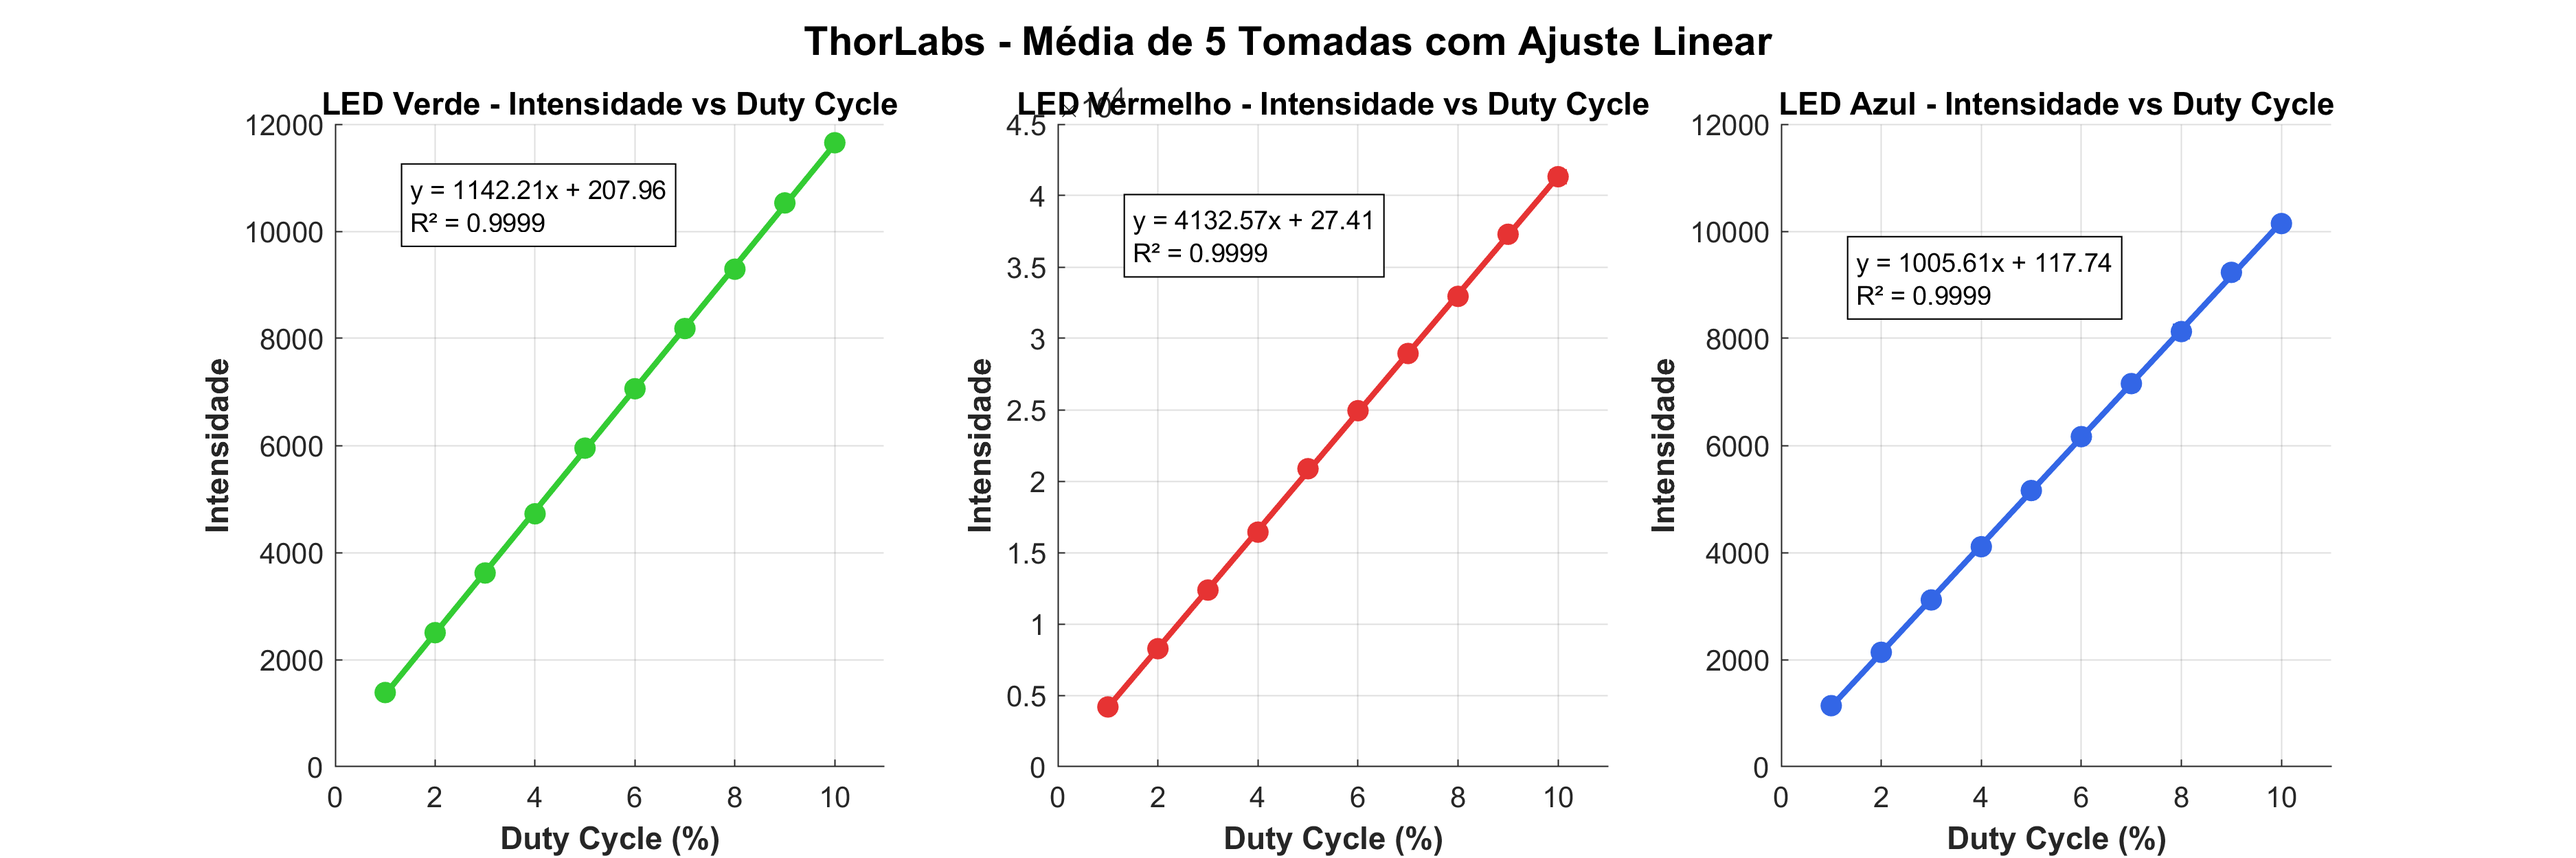
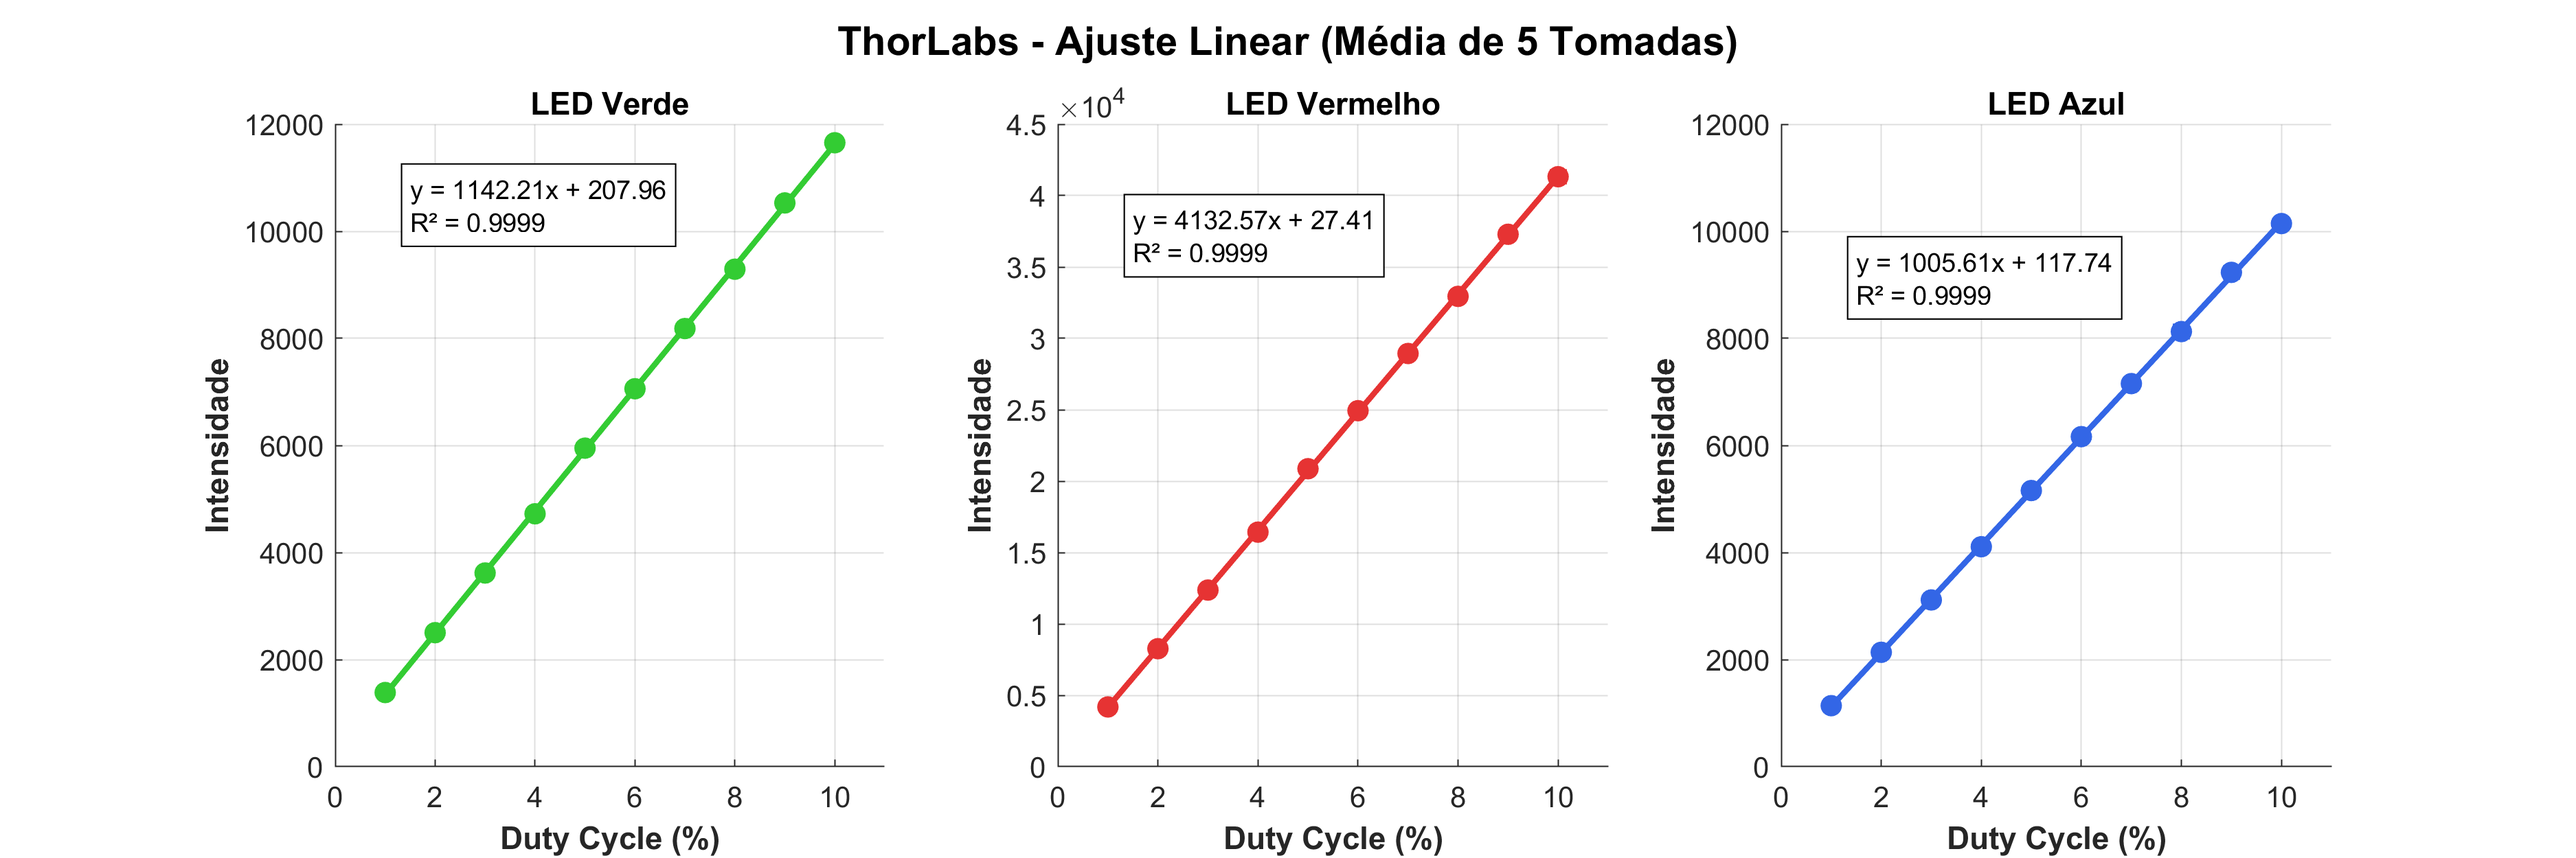
Ordem 2

diff --git a/Experimentos/scripts/analise_json_ajuste_poly2.m b/Experimentos/scripts/analise_json_ajuste_poly2.m
@@ -1,8 +1,7 @@
 % analise_json_ajuste_poly2.m
 % Script para análise dos dados do JSON com ajuste misto
 % - ThorLabs: Ajuste linear para todos
-% - OSA Visível canais RGB e R: Polinômio grau 2 para VERMELHO, linear para verde/azul
-% - OSA Visível canais G e B: Ajuste linear para todos
+% - OSA Visível: Polinômio grau 2 para TODOS (todos os canais, todas as cores)
 %
 % Autor: Jakson Almeida
 % Data: 2026-01-29
@@ -82,10 +81,6 @@ fprintf('\n=== Processando OSA Visível ===\n');
 canal_tipos = {'x1', 'x2', 'x3', 'x4'};
 canal_nomes = {'RGB (Todos os Canais)', 'Canal R', 'Canal G', 'Canal B'};
 
-% Definir quais canais usam polinômio grau 2 para vermelho
-% x1 (RGB) e x2 (R) usam grau 2 para vermelho
-canais_poly2_red = {'x1', 'x2'};
-
 color_green = [0.2, 0.8, 0.2];
 color_red = [0.9, 0.2, 0.2];
 color_blue = [0.2, 0.4, 0.9];
@@ -96,56 +91,57 @@ for tipo_idx = 1:length(canal_tipos)
     
     fprintf('\nProcessando: %s\n', tipo_nome);
     
-    % Verificar se este canal usa polinômio grau 2 para vermelho
-    usar_poly2_red = ismember(tipo, canais_poly2_red);
+    % OSA Visível sempre usa polinômio grau 2 para TODOS
     
     % Inicializar arrays
     osa_green = zeros(5, 10);
     osa_red = zeros(5, 10);
     osa_blue = zeros(5, 10);
     
-    % Coletar dados
+    % Coletar dados de cada tomada
     for tomada = 1:5
         tomada_str = sprintf('x%d', tomada);
         
+        % Verificar se a tomada existe
         if ~isfield(data.data.osa_visivel, tomada_str)
+            fprintf('  Aviso: Tomada %d não encontrada\n', tomada);
             continue;
         end
         
         tomada_data = data.data.osa_visivel.(tomada_str);
         
+        % Verificar se o tipo existe
+        if ~isfield(tomada_data, tipo)
+            fprintf('  Aviso: Tipo %s não encontrado na tomada %d\n', tipo, tomada);
+            continue;
+        end
+        
+        tipo_data = tomada_data.(tipo);
+        
         for dc = 1:10
             dc_str = sprintf('x%d', dc);
             
-            if ~isfield(tomada_data, dc_str)
-                continue;
-            end
-            
-            dc_data = tomada_data.(dc_str);
-            
-            if ~isfield(dc_data, tipo)
-                continue;
-            end
-            
-            tipo_data = dc_data.(tipo);
-            
-            % Converter valores
-            if ~isempty(tipo_data.green.intensity) && ischar(tipo_data.green.intensity)
-                osa_green(tomada, dc) = str2double(tipo_data.green.intensity);
-            else
-                osa_green(tomada, dc) = NaN;
-            end
-            
-            if ~isempty(tipo_data.red.intensity) && ischar(tipo_data.red.intensity)
-                osa_red(tomada, dc) = str2double(tipo_data.red.intensity);
-            else
-                osa_red(tomada, dc) = NaN;
-            end
-            
-            if ~isempty(tipo_data.blue.intensity) && ischar(tipo_data.blue.intensity)
-                osa_blue(tomada, dc) = str2double(tipo_data.blue.intensity);
-            else
-                osa_blue(tomada, dc) = NaN;
+            if isfield(tipo_data, dc_str)
+                dc_data = tipo_data.(dc_str);
+                
+                % Converter valores, tratando strings vazias
+                if ~isempty(dc_data.green.intensity) && ischar(dc_data.green.intensity)
+                    osa_green(tomada, dc) = str2double(dc_data.green.intensity);
+                else
+                    osa_green(tomada, dc) = NaN;
+                end
+                
+                if ~isempty(dc_data.red.intensity) && ischar(dc_data.red.intensity)
+                    osa_red(tomada, dc) = str2double(dc_data.red.intensity);
+                else
+                    osa_red(tomada, dc) = NaN;
+                end
+                
+                if ~isempty(dc_data.blue.intensity) && ischar(dc_data.blue.intensity)
+                    osa_blue(tomada, dc) = str2double(dc_data.blue.intensity);
+                else
+                    osa_blue(tomada, dc) = NaN;
+                end
             end
         end
     end
@@ -163,76 +159,64 @@ for tipo_idx = 1:length(canal_tipos)
     valid_red = ~isnan(osa_red_mean);
     valid_blue = ~isnan(osa_blue_mean);
     
-    % Ajuste para VERDE (sempre linear)
-    if sum(valid_green) >= 2
-        [p_osa_green, S_osa_green] = polyfit(duty_cycles(valid_green), osa_green_mean(valid_green), 1);
+    % Ajuste para VERDE (polinômio grau 2)
+    if sum(valid_green) >= 3
+        [p_osa_green, S_osa_green] = polyfit(duty_cycles(valid_green), osa_green_mean(valid_green), 2);
         [y_fit_osa_green, ~] = polyval(p_osa_green, duty_cycles(valid_green), S_osa_green);
         R2_osa_green = calcular_r2(osa_green_mean(valid_green), y_fit_osa_green);
-        grau_green = 1;
+        grau_green = 2;
     else
-        p_osa_green = [NaN, NaN];
+        p_osa_green = [NaN, NaN, NaN];
         y_fit_osa_green = [];
         R2_osa_green = NaN;
-        grau_green = 1;
+        grau_green = 2;
     end
     
-    % Ajuste para VERMELHO (grau 2 para x1 e x2, linear para x3 e x4)
-    if usar_poly2_red && sum(valid_red) >= 3
-        % Ajuste POLINOMIAL GRAU 2
+    % Ajuste para VERMELHO (polinômio grau 2)
+    if sum(valid_red) >= 3
         [p_osa_red, S_osa_red] = polyfit(duty_cycles(valid_red), osa_red_mean(valid_red), 2);
         [y_fit_osa_red, ~] = polyval(p_osa_red, duty_cycles(valid_red), S_osa_red);
         R2_osa_red = calcular_r2(osa_red_mean(valid_red), y_fit_osa_red);
         grau_red = 2;
-    elseif sum(valid_red) >= 2
-        % Ajuste LINEAR
-        [p_osa_red, S_osa_red] = polyfit(duty_cycles(valid_red), osa_red_mean(valid_red), 1);
-        [y_fit_osa_red, ~] = polyval(p_osa_red, duty_cycles(valid_red), S_osa_red);
-        R2_osa_red = calcular_r2(osa_red_mean(valid_red), y_fit_osa_red);
-        grau_red = 1;
     else
-        p_osa_red = [NaN, NaN];
+        p_osa_red = [NaN, NaN, NaN];
         y_fit_osa_red = [];
         R2_osa_red = NaN;
-        grau_red = 1;
+        grau_red = 2;
     end
     
-    % Ajuste para AZUL (sempre linear)
-    if sum(valid_blue) >= 2
-        [p_osa_blue, S_osa_blue] = polyfit(duty_cycles(valid_blue), osa_blue_mean(valid_blue), 1);
+    % Ajuste para AZUL (polinômio grau 2)
+    if sum(valid_blue) >= 3
+        [p_osa_blue, S_osa_blue] = polyfit(duty_cycles(valid_blue), osa_blue_mean(valid_blue), 2);
         [y_fit_osa_blue, ~] = polyval(p_osa_blue, duty_cycles(valid_blue), S_osa_blue);
         R2_osa_blue = calcular_r2(osa_blue_mean(valid_blue), y_fit_osa_blue);
-        grau_blue = 1;
+        grau_blue = 2;
     else
-        p_osa_blue = [NaN, NaN];
+        p_osa_blue = [NaN, NaN, NaN];
         y_fit_osa_blue = [];
         R2_osa_blue = NaN;
-        grau_blue = 1;
+        grau_blue = 2;
     end
     
     % Exibir parâmetros
-    fprintf('\n  %s - Parâmetros do ajuste:\n', tipo_nome);
+    fprintf('\n  %s - Parâmetros do ajuste (Grau 2):\n', tipo_nome);
     if ~isnan(p_osa_green(1))
-        fprintf('    Verde:    y = %.2fx + %.2f  (R² = %.4f) [Linear]\n', ...
-            p_osa_green(1), p_osa_green(2), R2_osa_green);
+        fprintf('    Verde:    y = %.2fx² + %.2fx + %.2f  (R² = %.4f)\n', ...
+            p_osa_green(1), p_osa_green(2), p_osa_green(3), R2_osa_green);
     else
         fprintf('    Verde:    Dados insuficientes\n');
     end
     
     if ~isnan(p_osa_red(1))
-        if grau_red == 2
-            fprintf('    Vermelho: y = %.2fx² + %.2fx + %.2f  (R² = %.4f) [Grau 2]\n', ...
-                p_osa_red(1), p_osa_red(2), p_osa_red(3), R2_osa_red);
-        else
-            fprintf('    Vermelho: y = %.2fx + %.2f  (R² = %.4f) [Linear]\n', ...
-                p_osa_red(1), p_osa_red(2), R2_osa_red);
-        end
+        fprintf('    Vermelho: y = %.2fx² + %.2fx + %.2f  (R² = %.4f)\n', ...
+            p_osa_red(1), p_osa_red(2), p_osa_red(3), R2_osa_red);
     else
         fprintf('    Vermelho: Dados insuficientes\n');
     end
     
     if ~isnan(p_osa_blue(1))
-        fprintf('    Azul:     y = %.2fx + %.2f  (R² = %.4f) [Linear]\n', ...
-            p_osa_blue(1), p_osa_blue(2), R2_osa_blue);
+        fprintf('    Azul:     y = %.2fx² + %.2fx + %.2f  (R² = %.4f)\n', ...
+            p_osa_blue(1), p_osa_blue(2), p_osa_blue(3), R2_osa_blue);
     else
         fprintf('    Azul:     Dados insuficientes\n');
     end
@@ -336,15 +320,16 @@ function plotar_osa(duty_cycles, green_mean, green_std, red_mean, red_std, ...
     errorbar(duty_cycles, green_mean, green_std, 'o', ...
         'Color', color_green, 'LineWidth', 1.5, 'MarkerSize', 6, ...
         'MarkerFaceColor', color_green);
-    if sum(valid_green) >= 2
+    if sum(valid_green) >= 3
         plot(duty_cycles(valid_green), y_fit_green, '-', 'Color', color_green, 'LineWidth', 2);
         text(1.5, max(green_mean(valid_green))*0.9, ...
-            sprintf('y = %.2fx + %.2f\nR² = %.4f', p_green(1), p_green(2), R2_green), ...
+            sprintf('y = %.2fx² + %.2fx + %.2f\nR² = %.4f', ...
+            p_green(1), p_green(2), p_green(3), R2_green), ...
             'FontSize', 9, 'BackgroundColor', 'white', 'EdgeColor', 'black');
     end
     xlabel('Duty Cycle (%)', 'FontSize', 11, 'FontWeight', 'bold');
     ylabel('Intensidade', 'FontSize', 11, 'FontWeight', 'bold');
-    title('LED Verde', 'FontSize', 12, 'FontWeight', 'bold');
+    title('LED Verde (Grau 2)', 'FontSize', 12, 'FontWeight', 'bold');
     grid on;
     xlim([0, 11]);
     set(gca, 'FontSize', 10);
@@ -356,26 +341,16 @@ function plotar_osa(duty_cycles, green_mean, green_std, red_mean, red_std, ...
     errorbar(duty_cycles, red_mean, red_std, 'o', ...
         'Color', color_red, 'LineWidth', 1.5, 'MarkerSize', 6, ...
         'MarkerFaceColor', color_red);
-    if sum(valid_red) >= 2
+    if sum(valid_red) >= 3
         plot(duty_cycles(valid_red), y_fit_red, '-', 'Color', color_red, 'LineWidth', 2);
-        if grau_red == 2
-            text(1.5, max(red_mean(valid_red))*0.9, ...
-                sprintf('y = %.2fx² + %.2fx + %.2f\nR² = %.4f', ...
-                p_red(1), p_red(2), p_red(3), R2_red), ...
-                'FontSize', 9, 'BackgroundColor', 'white', 'EdgeColor', 'black');
-        else
-            text(1.5, max(red_mean(valid_red))*0.9, ...
-                sprintf('y = %.2fx + %.2f\nR² = %.4f', p_red(1), p_red(2), R2_red), ...
-                'FontSize', 9, 'BackgroundColor', 'white', 'EdgeColor', 'black');
-        end
+        text(1.5, max(red_mean(valid_red))*0.9, ...
+            sprintf('y = %.2fx² + %.2fx + %.2f\nR² = %.4f', ...
+            p_red(1), p_red(2), p_red(3), R2_red), ...
+            'FontSize', 9, 'BackgroundColor', 'white', 'EdgeColor', 'black');
     end
     xlabel('Duty Cycle (%)', 'FontSize', 11, 'FontWeight', 'bold');
     ylabel('Intensidade', 'FontSize', 11, 'FontWeight', 'bold');
-    if grau_red == 2
-        title('LED Vermelho (Grau 2)', 'FontSize', 12, 'FontWeight', 'bold');
-    else
-        title('LED Vermelho', 'FontSize', 12, 'FontWeight', 'bold');
-    end
+    title('LED Vermelho (Grau 2)', 'FontSize', 12, 'FontWeight', 'bold');
     grid on;
     xlim([0, 11]);
     set(gca, 'FontSize', 10);
@@ -387,25 +362,26 @@ function plotar_osa(duty_cycles, green_mean, green_std, red_mean, red_std, ...
     errorbar(duty_cycles, blue_mean, blue_std, 'o', ...
         'Color', color_blue, 'LineWidth', 1.5, 'MarkerSize', 6, ...
         'MarkerFaceColor', color_blue);
-    if sum(valid_blue) >= 2
+    if sum(valid_blue) >= 3
         plot(duty_cycles(valid_blue), y_fit_blue, '-', 'Color', color_blue, 'LineWidth', 2);
         text(1.5, max(blue_mean(valid_blue))*0.9, ...
-            sprintf('y = %.2fx + %.2f\nR² = %.4f', p_blue(1), p_blue(2), R2_blue), ...
+            sprintf('y = %.2fx² + %.2fx + %.2f\nR² = %.4f', ...
+            p_blue(1), p_blue(2), p_blue(3), R2_blue), ...
             'FontSize', 9, 'BackgroundColor', 'white', 'EdgeColor', 'black');
     end
     xlabel('Duty Cycle (%)', 'FontSize', 11, 'FontWeight', 'bold');
     ylabel('Intensidade', 'FontSize', 11, 'FontWeight', 'bold');
-    title('LED Azul', 'FontSize', 12, 'FontWeight', 'bold');
+    title('LED Azul (Grau 2)', 'FontSize', 12, 'FontWeight', 'bold');
     grid on;
     xlim([0, 11]);
     set(gca, 'FontSize', 10);
     hold off;
     
     tipo_nome_safe = strrep(tipo_nome, ' ', '_');
-    sgtitle(sprintf('OSA Visível - %s (Média de 5 Tomadas)', tipo_nome), ...
+    sgtitle(sprintf('OSA Visível - %s (Média de 5 Tomadas - Ajuste Grau 2)', tipo_nome), ...
         'FontSize', 14, 'FontWeight', 'bold');
     
-    output_file = sprintf('OSA_Visivel_%s_ajuste_misto.png', tipo_nome_safe);
+    output_file = sprintf('OSA_Visivel_%s_ajuste_grau2.png', tipo_nome_safe);
     print(output_file, '-dpng', '-r300');
     fprintf('  Gráfico salvo em: %s\n', output_file);
 end
